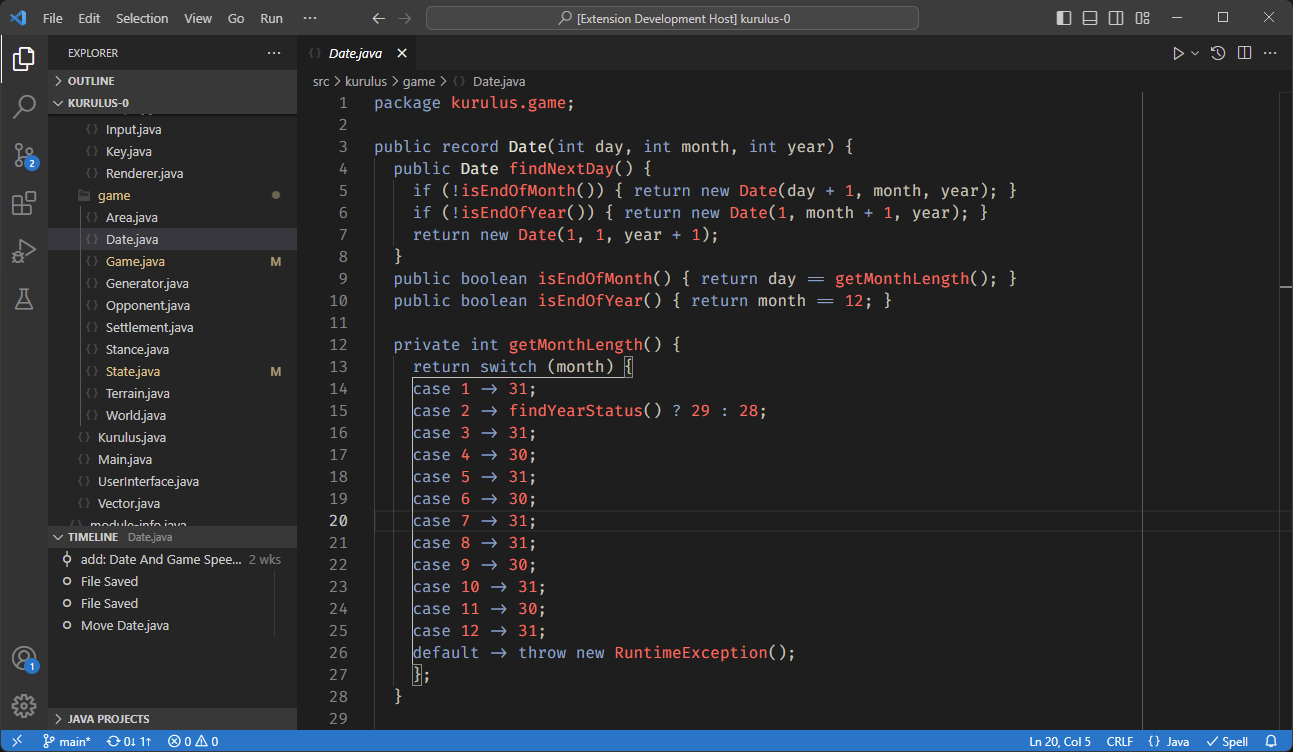
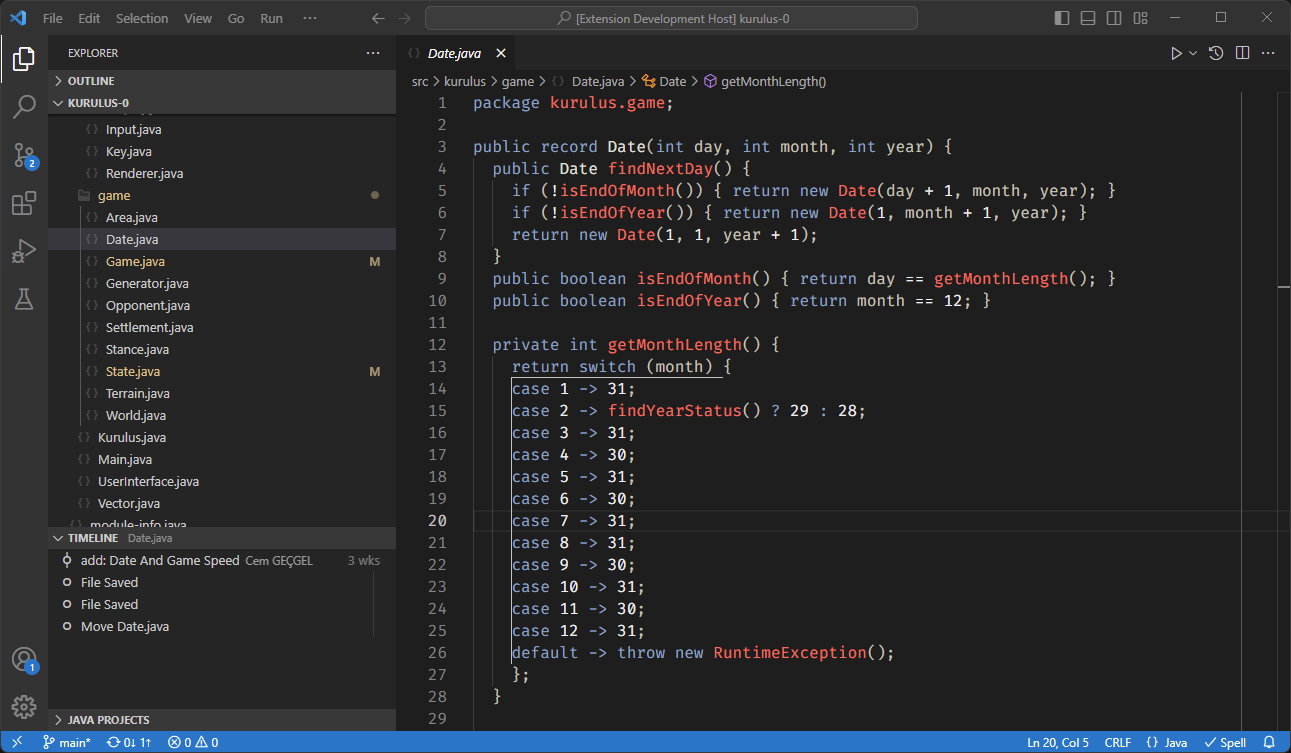
change: Operator Colors

diff --git a/CHANGELOG.md b/CHANGELOG.md
@@ -1,5 +1,11 @@
 # Change Log
 
+## [0.0.6]
+
+- Color operators same as constants.
+- Change constant color to white.
+- Fix markup inlined raw strings.
+
 ## [0.0.5]
 
 - Updated screenshots.
